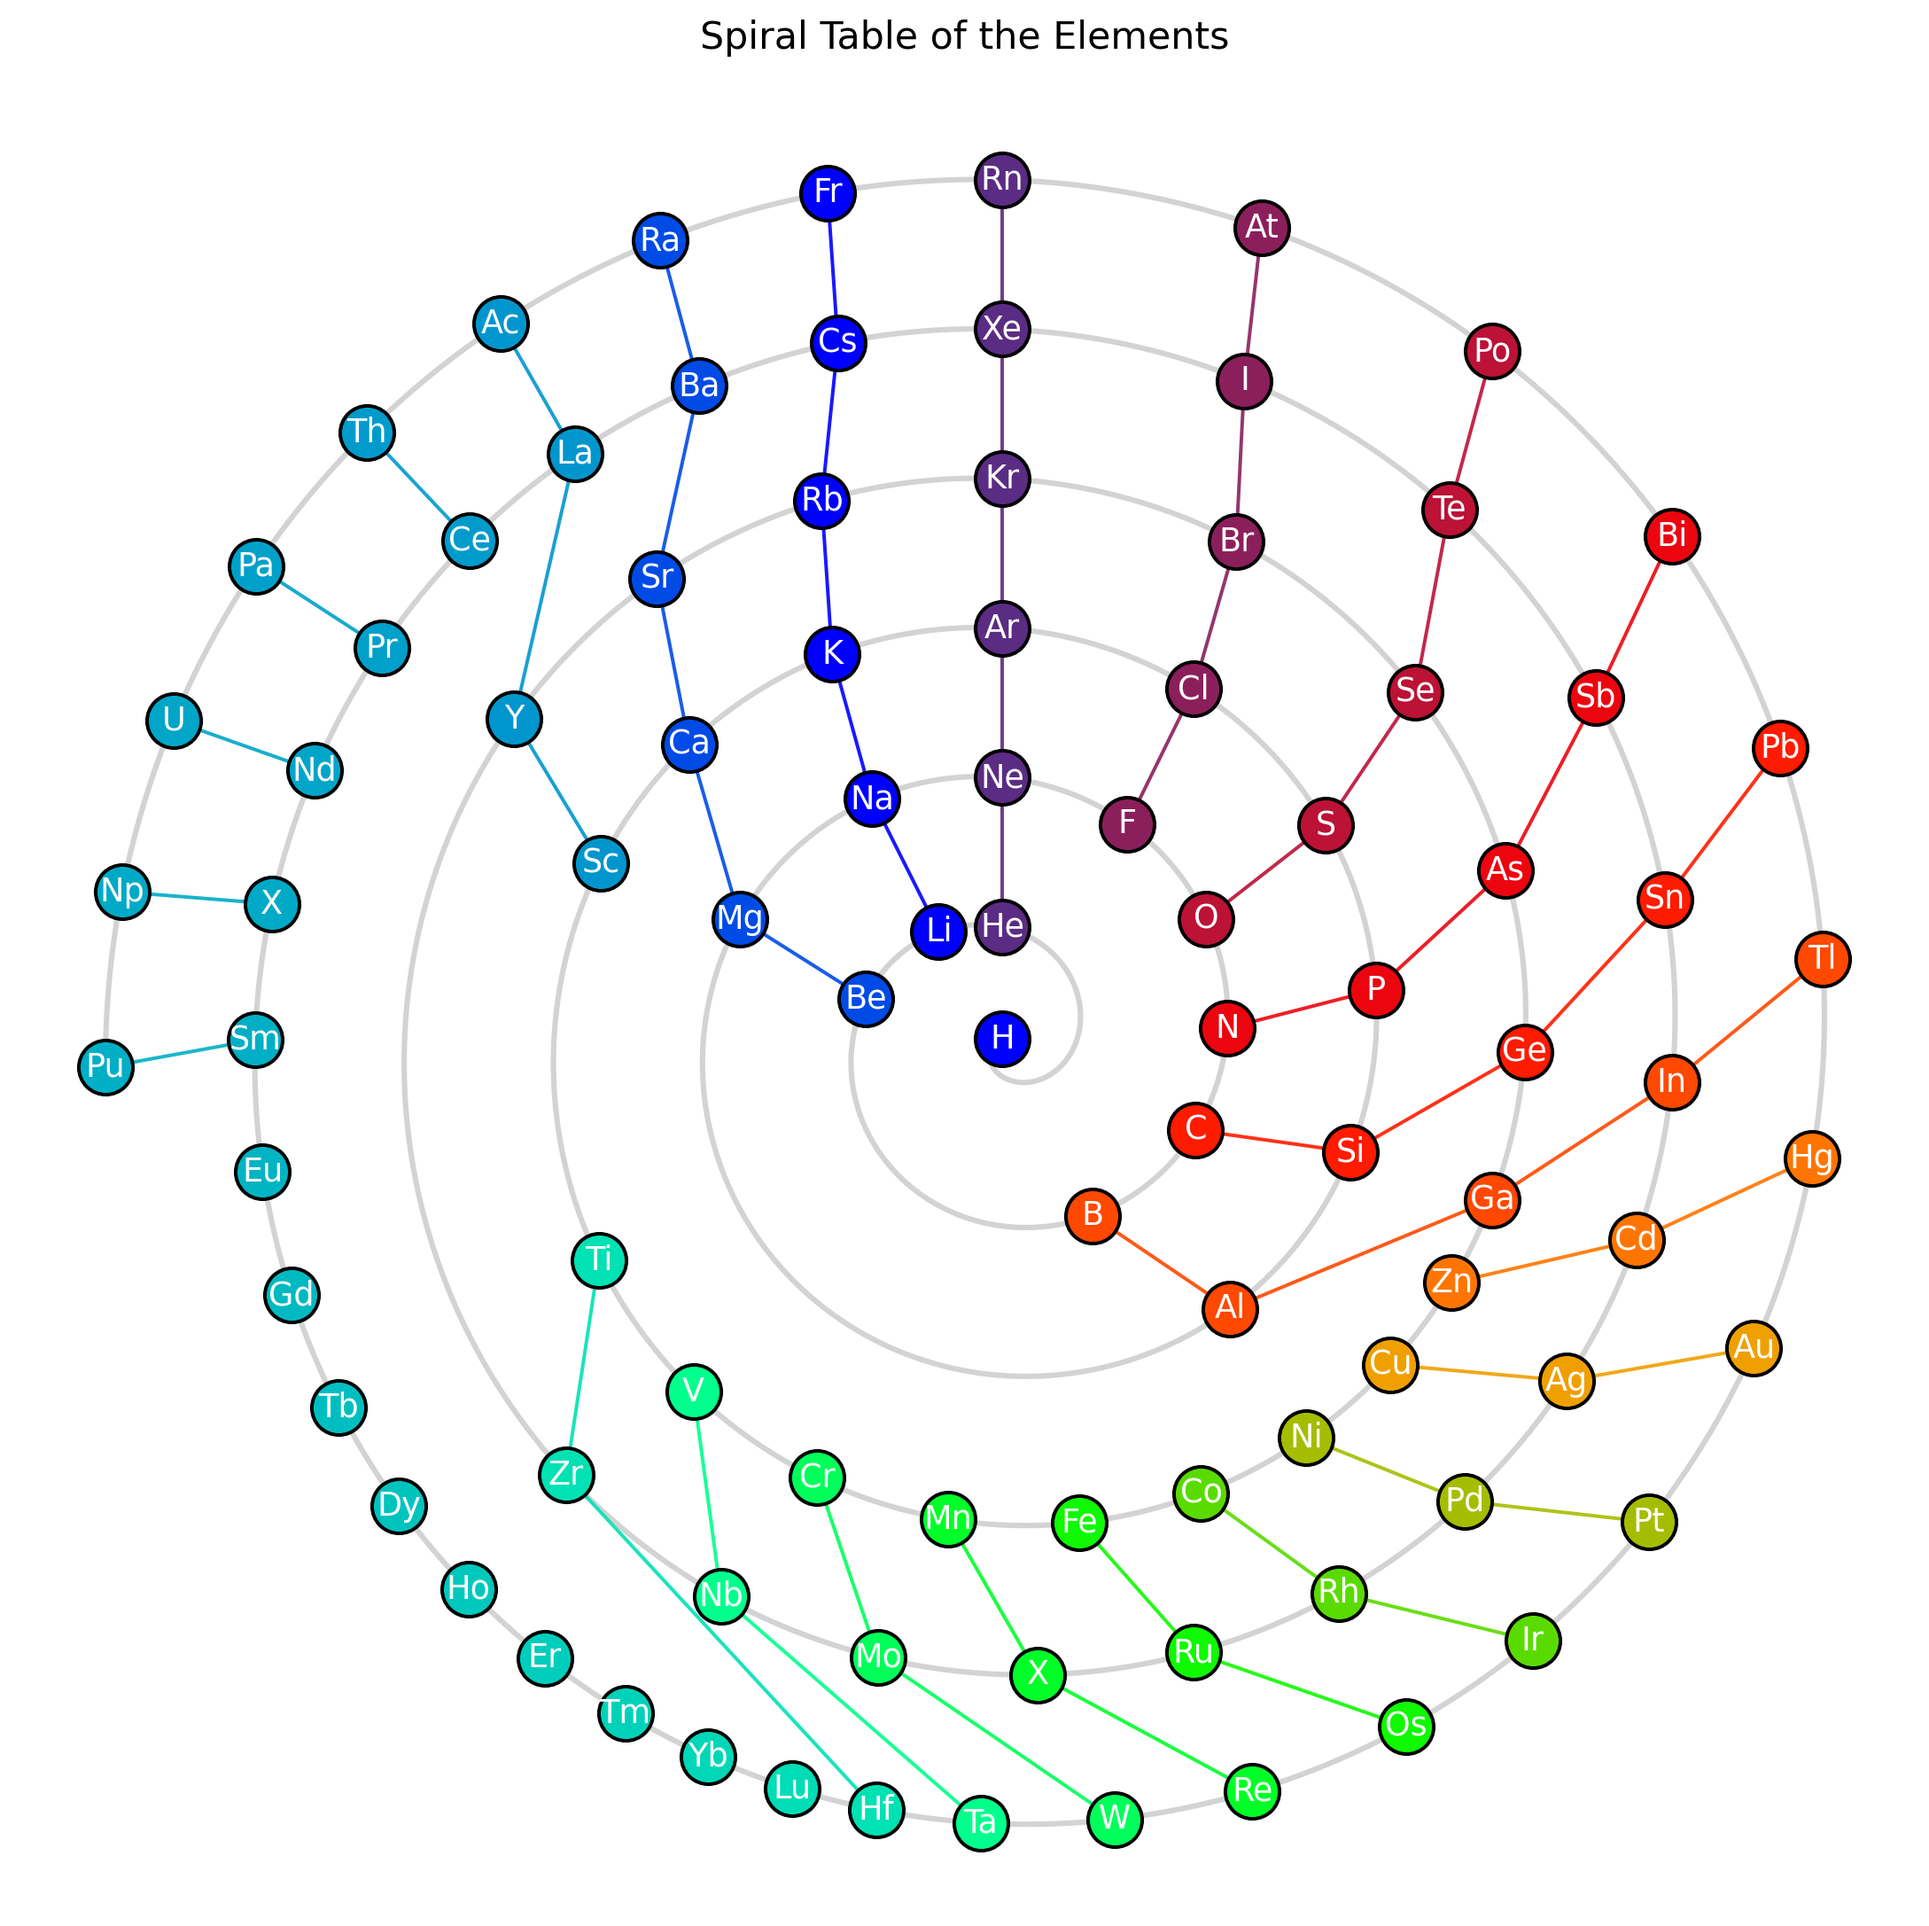
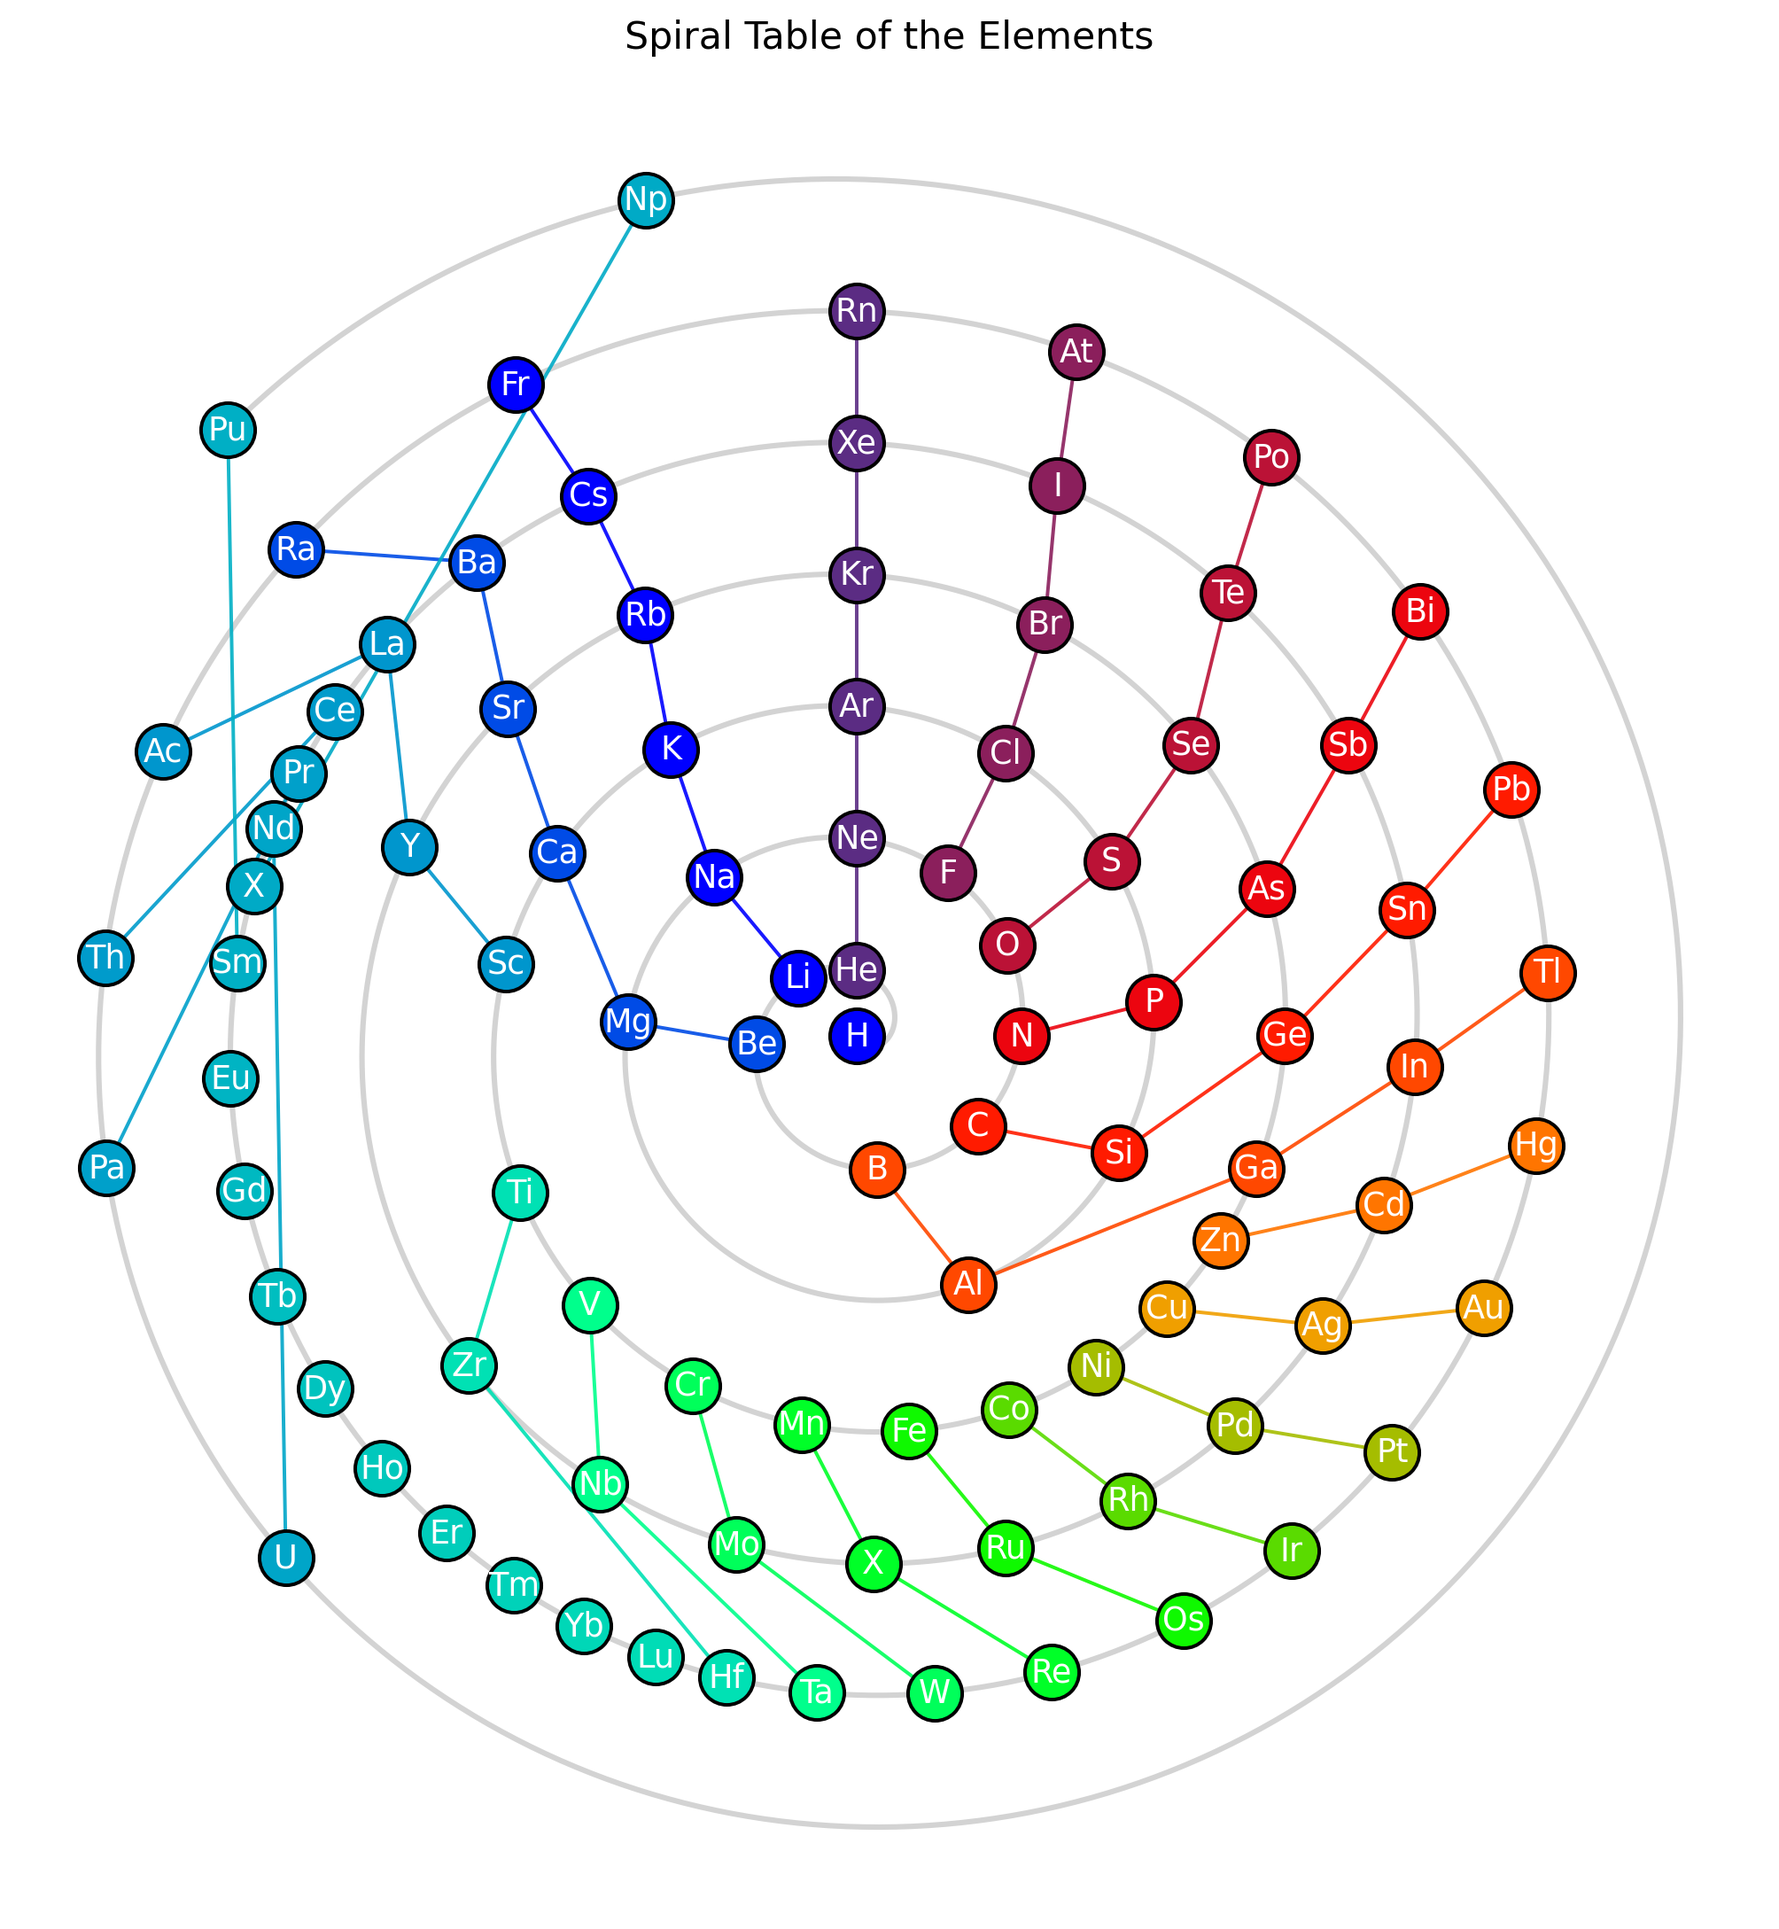
add spring gradient for dencer center

diff --git a/utils.py b/utils.py
@@ -1,3 +1,4 @@
+import numpy as np
 from config import ANCHOR_GROUP
 
 def is_bounded_segment(elements, segment):
@@ -9,43 +10,6 @@ def is_bounded_segment(elements, segment):
         return False
 
     return True
-
-def is_last_turn(segments, segment_index):
-    return segment_index == len(segments) - 1
-
-def last_turn_bounded(segment, elements, ANCHOR_GROUP):
-    """
-    Determine whether the final turn (segment) is bounded by an anchor.
-
-    A segment is bounded if its last element belongs to the anchor group.
-    Otherwise it is unbounded.
-
-    Parameters
-    ----------
-    segment : list[int]
-        Atomic numbers in the segment (turn).
-    elements : list[dict]
-        Full element metadata list.
-    ANCHOR_GROUP : int or None
-        The group number that defines the anchor.
-
-    Returns
-    -------
-    bool
-        True  → last turn is bounded by anchor
-        False → last turn is unbounded
-    """
-
-    if not segment:
-        return False
-
-    last_Z = segment[-1]
-
-    # Find the element metadata
-    elem = next(e for e in elements if e["atomic_number"] == last_Z)
-
-    # If the last element's group matches the anchor group → bounded
-    return elem["group"] == ANCHOR_GROUP
 
 def is_anchor(element):
     """
@@ -96,3 +60,14 @@ def compute_segments(ordered):
 
     return segments
 
+def find_ideal_spacing(segment):
+    """
+    Compute ideal angular spacing for a segment (turn).
+    - Normal turn: d_ideal = 2π / len(segment)
+    """
+    count = len(segment)
+    
+    d_ideal = (2 * np.pi) / count if count > 1 else 0.0
+
+    # Fallback
+    return d_ideal

diff --git a/Position_Elements.py b/Position_Elements.py
@@ -1,16 +1,15 @@
 import numpy as np
 
-# --- Config ---
 from config import (
     SPIRAL_START_ANGLE,
     STEP,
     REPULSION_WEIGHT,
+    SPRING_GRATIENT,
     ATTRACTION_WEIGHT
     )
 
-# --- Utils ---
 from utils import *
-from Apply_Forces import *
+from Apply_Forces import spring_force, nearest_neighbor_attraction
 
 def relax_spiral(elements, positions):
     """
@@ -59,7 +58,12 @@ def relax_spiral(elements, positions):
             Ft = 0.0
 
             # 1. Spring force (repulsion + attraction) towards evenly spacing elements around each segment
-            Ft += spring_force(Z, positions, d_ideal, REPULSION_WEIGHT)
+            raw_spring = spring_force(Z, positions, d_ideal, REPULSION_WEIGHT)
+            if SPRING_GRATIENT > 0:
+                gradient = SPRING_GRATIENT / len(segment)
+            else:
+                gradient = 1
+            Ft += raw_spring * gradient
 
             # 2. Group attraction
             Ft += nearest_neighbor_attraction(Z, positions, elements, ATTRACTION_WEIGHT)

diff --git a/Spiral_Table_of_the_Elements.py b/Spiral_Table_of_the_Elements.py
@@ -20,7 +20,7 @@ def load_elements(csv_path: PathlibPath):
             atomic_number = int(row["AtomicNumber"])
             atomic_name = row.get("AtomicName") or row.get("Name")
             group = float(row.get("Group", "")) if str(row.get("Group", "")).strip() else None
-            starter_angle = float(row.get("angle", 0.0))
+            starter_angle = float(row.get("angle", 0.0)) #artifact of older system
             rows.append({
                 "atomic_number": atomic_number,
                 "atomic_name": atomic_name,

diff --git a/Apply_Forces.py b/Apply_Forces.py
@@ -10,19 +10,6 @@ def circ_diff(a, b):
         d -= 2*np.pi
     return d
 
-
-def find_ideal_spacing(segment):
-    """
-    Compute ideal angular spacing for a segment (turn).
-    - Normal turn: d_ideal = 2π / len(segment)
-    """
-    count = len(segment)
-    
-    d_ideal = (2 * np.pi) / count if count > 1 else 0.0
-
-    # Fallback
-    return d_ideal
-
 def spring_force(Z, positions, d_ideal, REPULSION_WEIGHT, eps=1e-4):
     """
     Compute tangential spring force for element Z based on ideal spacing.

diff --git a/config.py b/config.py
@@ -9,6 +9,7 @@ ANCHOR_ANGLE = np.pi / 2 #what to orient the anchor group to
 
 # Force weights
 REPULSION_WEIGHT = 1
+SPRING_GRATIENT = 32 # how much weaker do you want the spring force to be for outer elements; 0 = no gradient
 ATTRACTION_WEIGHT = 50
 
 # Drawing & Force weights
